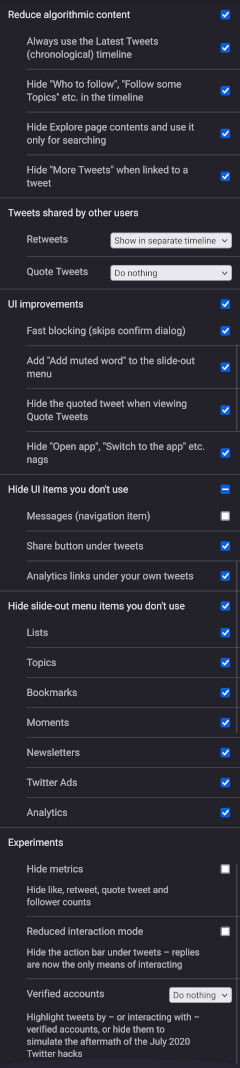
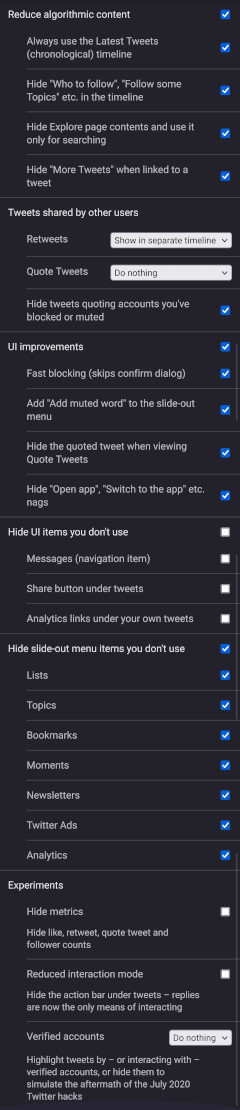
Update README and extension options screenshots for v2.4

Changed region(s): [[0.0292, 0.0, 0.9917, 1.0]]

diff --git a/README.md b/README.md
@@ -43,13 +43,14 @@ If you open [mobile.twitter.com](https://mobile.twitter.com) and use the "Instal
 - Hide "Who to follow", "Follow some Topics" etc. in the timeline
 - Hide "What's happening", "Topics to follow" etc. in the sidebar
 - Hide "More Tweets" when linked to a tweet
-- Hide algorithmic tweets based on likes and replies in the "Home" timeline, if you use it
+- Hide algorithmic tweets based on likes, replies and suggested topics in the "Home" timeline, if you use it
 - Hide Explore page contents on mobile and use it only for searching
 
 ### Control which tweets shared by people you follow appear on your timeline
 
 - Move Retweets to a separate timeline (default setting), or hide them entirely
 - Move Quote Tweets and replies to them to a separate timeline, or hide them entirely (off by default)
+- Hide tweets quoting accounts you've blocked or muted
 
 ### UI improvements
 
